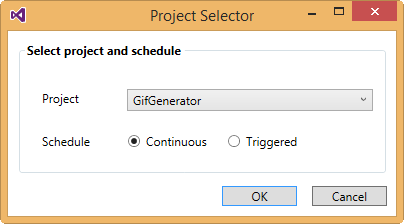
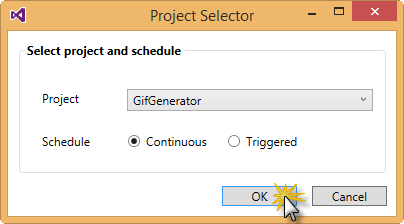
updates after testing the demo

Changed region(s): [[0.6535, 0.8125, 0.7723, 1.0]]

diff --git a/Demos/Demo-ClipMeme/source/code/begin/ClipMeme/ClipMeme/Scripts/app/controllers/modal.js b/Demos/Demo-ClipMeme/source/code/begin/ClipMeme/ClipMeme/Scripts/app/controllers/modal.js
@@ -7,7 +7,7 @@
 
     function modal($scope, $upload, $modalInstance, gifservice, $rootScope, username) {
         cleanVariables();
-
+        
         $scope.dropComplete = function (src, file) {
             $scope.image.source = src;
             $scope.image.file = file;
@@ -27,10 +27,10 @@
                     },
                     file: $scope.image.file,
                 }).progress(function (evt) {
-                    if (!$scope.loading && evt.loaded != evt.total) {
+                    if (!$scope.loading && evt.loaded !== evt.total) {
                         $scope.loading = true;
                     }
-                }).success(function (data, status, headers, config) {
+                }).success(function () {
                     cleanVariables();
                     $modalInstance.close({
                         URL: image,

diff --git a/Demos/Demo-ClipMeme/demo.md b/Demos/Demo-ClipMeme/demo.md
@@ -355,7 +355,7 @@ This demo is composed of the following segments:
 
 	>**Note:** Don't remove the **scope.init** declaration as it is required for AngularJS.
 	
-1. Open **Modal.cshtml** view from the **Share** folder and update the div element with id **dropzone** as with the code below; the code to update is highlighted with a comment that says **<!--Dropzone element-->**. 
+1. Open the **Modal.cshtml** view from **Views\Shared** folder and update the div element with id **dropzone** as with the code below; the code to update is highlighted with a comment that says **<!--Dropzone element-->**. 
  
 	````HTML
 	<div app-dropzone class="drag-drop" ng-hide="fileloaded || loading">
@@ -385,6 +385,8 @@ This demo is composed of the following segments:
 	_Select Existing Web Site dialog box_
 
 1. Select the **Staging** web site and click **OK**.
+
+1. In the **Connection** page, leave the imported values and click **Publish**. Wait until the publishing process completes.
 
 
 <a name="segment3" />
@@ -427,6 +429,8 @@ This demo is composed of the following segments:
 	![Associating a Webjob project with your Website](Images/associating-a-webjob-project-with-your-websit.png?raw=true)
 	
 	_Associating a Webjob project with your Website_
+
+1. In the Project Selector dialog, click Ok. 
 
 	![Webjob project selector](Images/webjob-project-selector.png?raw=true)
 	
